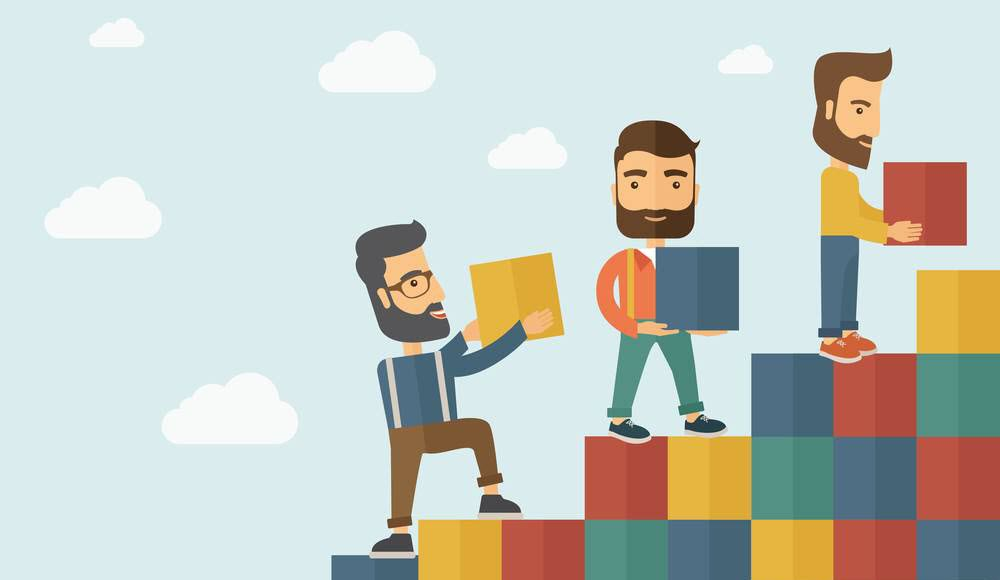
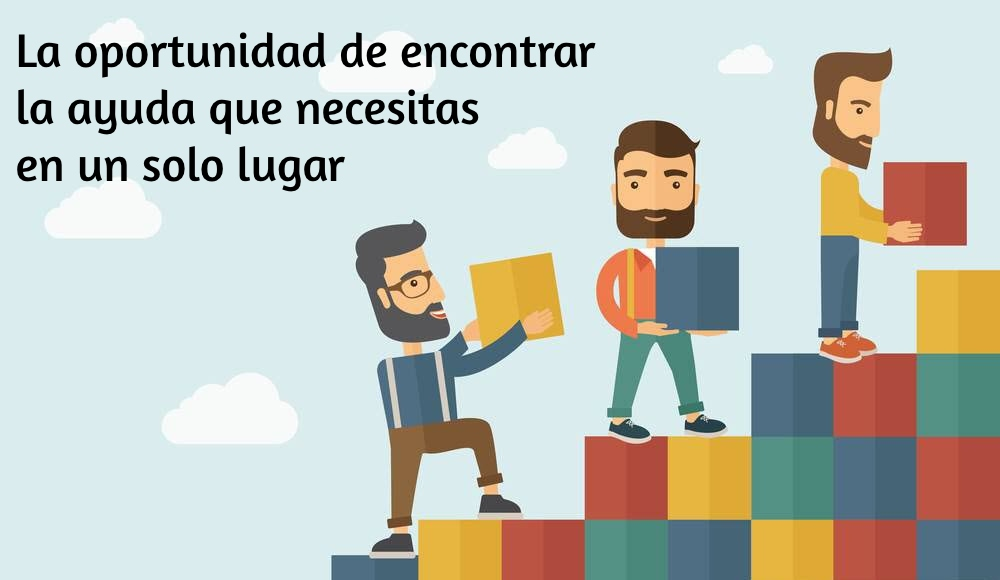
Welcome page

Changed region(s): [[0.0, 0.1552, 0.496, 0.3414], [0.0, 0.0621, 0.589, 0.1241]]

diff --git a/imports/ui/App.js b/imports/ui/App.js
@@ -21,6 +21,7 @@ class App extends Component {
 
 showContent()
 {
+  console.log(Meteor.user());
   if(Meteor.user())
   {
     return(<div>
@@ -29,25 +30,44 @@ showContent()
   }
   else
   {
-    return(<div>
+    return(<div class="carrusel">
 
       <br/>
-      <Carousel>
+      <br/>
+      <br/>
+      <table class="table">
+      <tr>
+          <td>
+             <Carousel autoPlay={true} showThumbs={false} infiniteLoop={true} width={"800px"}>
                 <div>
                     <img src="/1.jpg" />
-                    <p className="legend">La oportunidad de encontrar la ayuda
-                    que necesitas en un solo lugar</p>
                 </div>
                 <div>
-                    <img src="/2.jpg" />
-                    <p className="legend">En algunos casos podrás obtener una remuneración por brindar ayuda a alguien</p>
+                    <img src="/2.jpg"></img>
+                    
                 </div>
                 <div>
-                    <img src="/3.jpg" />
-                    <p className="legend">Nuestro trabajo es conectar gente para que se ayuden mutuamente</p>
+                    <img src="/3.jpg"></img>
                 </div>
-      </Carousel>
+            </Carousel>
+          </td>
+              <td>
+              <h3>
+                  ¿Necesitas ayuda? <br/>Estás en el lugar indicado <br/><br/>
+                  ¿Te gusta ayudar? <br/>También acá puedes hacerlo y hasta recibir una remuneración
+                  por ello<br/><br/><br/>
+                  Regístrate y únete al progreso porque todos necesitamos la ayuda de alguien
+                  y todos podemos cooperar en algo
+                  </h3>
+
+             </td>
+      </tr>                        
+      </table>                  
+
+      
+      
           </div>);
+          //
   }
   
 }
@@ -57,7 +77,7 @@ showContent()
       <div>
 
            <nav class="barra">
-                        <a> Help Buddy </a>
+                        <a> <img class="q" src="/q.png" alt="help buddy icon"/> Help Buddy </a>
                         <div class="useri">
                           <AccountsUIWrapper/>
                         </div>

diff --git a/imports/ui/App.css b/imports/ui/App.css
@@ -82,18 +82,28 @@ th, td {
     width: 700px;
     font-size: 40px;
 }
-
+.table{
+  background-color: #00A0D8;
+}
 .useri{
   float: right;
   margin-right: 70px;
 }
 .izq{
   float: left;
-  margin-left: 5%;
+  margin-left: 120px;
+  font-size: 30px;
 }
 .der{
   margin-top:7%;
   float: right;
+}
+.tex{
+  font-size: 30px;
+}
+.q{
+  height: 45px;
+  margin-bottom: 3%;
 }
 nav {
   float: center;
@@ -122,9 +132,9 @@ a{
   color: #fff;
   text-decoration: none;
   float: left;
-  font-family: Arial, sans-serif;
-  font-size: 30px;
-  margin-left: 30px;
+  font-family: 'Concert One', cursive;
+  font-size: 40px;
+  margin-left: 60px;
   padding: 10px;
   list-style: none;
   position: -webkit-sticky; /* Safari */
@@ -142,4 +152,11 @@ h1{
 }
 h2{
   color: #fff;
+}
+h3{
+  font-size: 22px;
+  text-align: justify;
+  font-family: 'Kalam', cursive;
+  color: #fff;
+  padding: 25px;
 }

diff --git a/client/main.html b/client/main.html
@@ -8,6 +8,7 @@
     <link href="vendor/fontawesome-free/css/all.min.css" rel="stylesheet" type="text/css">
     <link href="https://fonts.googleapis.com/css?family=Montserrat:400,700" rel="stylesheet" type="text/css">
     <link href="https://fonts.googleapis.com/css?family=Lato:400,700,400italic,700italic" rel="stylesheet" type="text/css">
+    <link href="https://fonts.googleapis.com/css?family=Concert+One|Kalam" rel="stylesheet">
 
     <!-- Plugin CSS -->
     <link href="vendor/magnific-popup/magnific-popup.css" rel="stylesheet" type="text/css">
